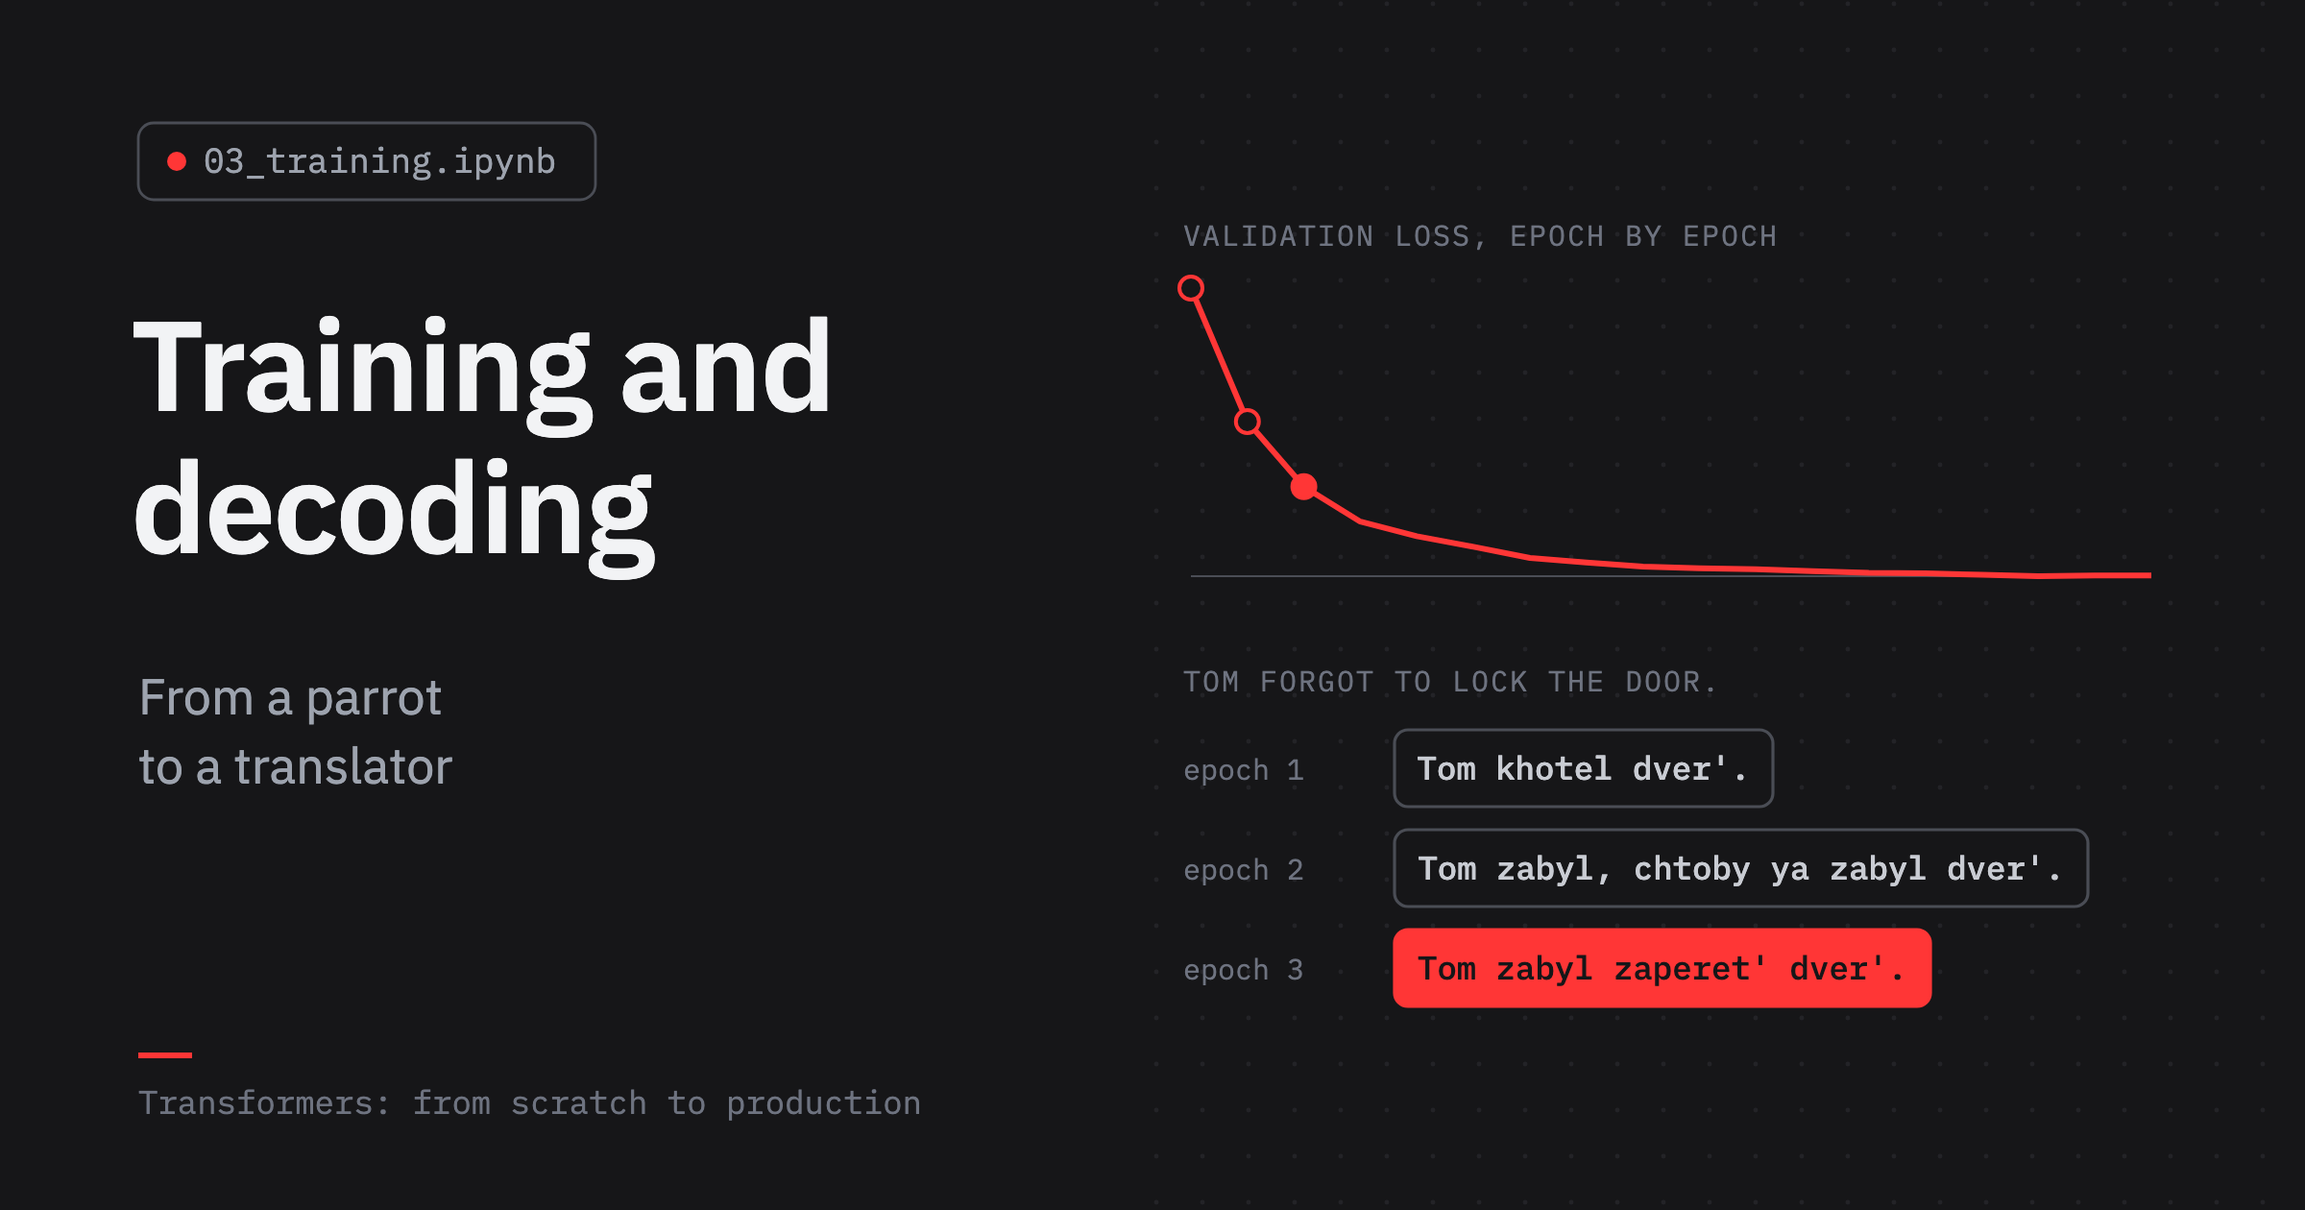
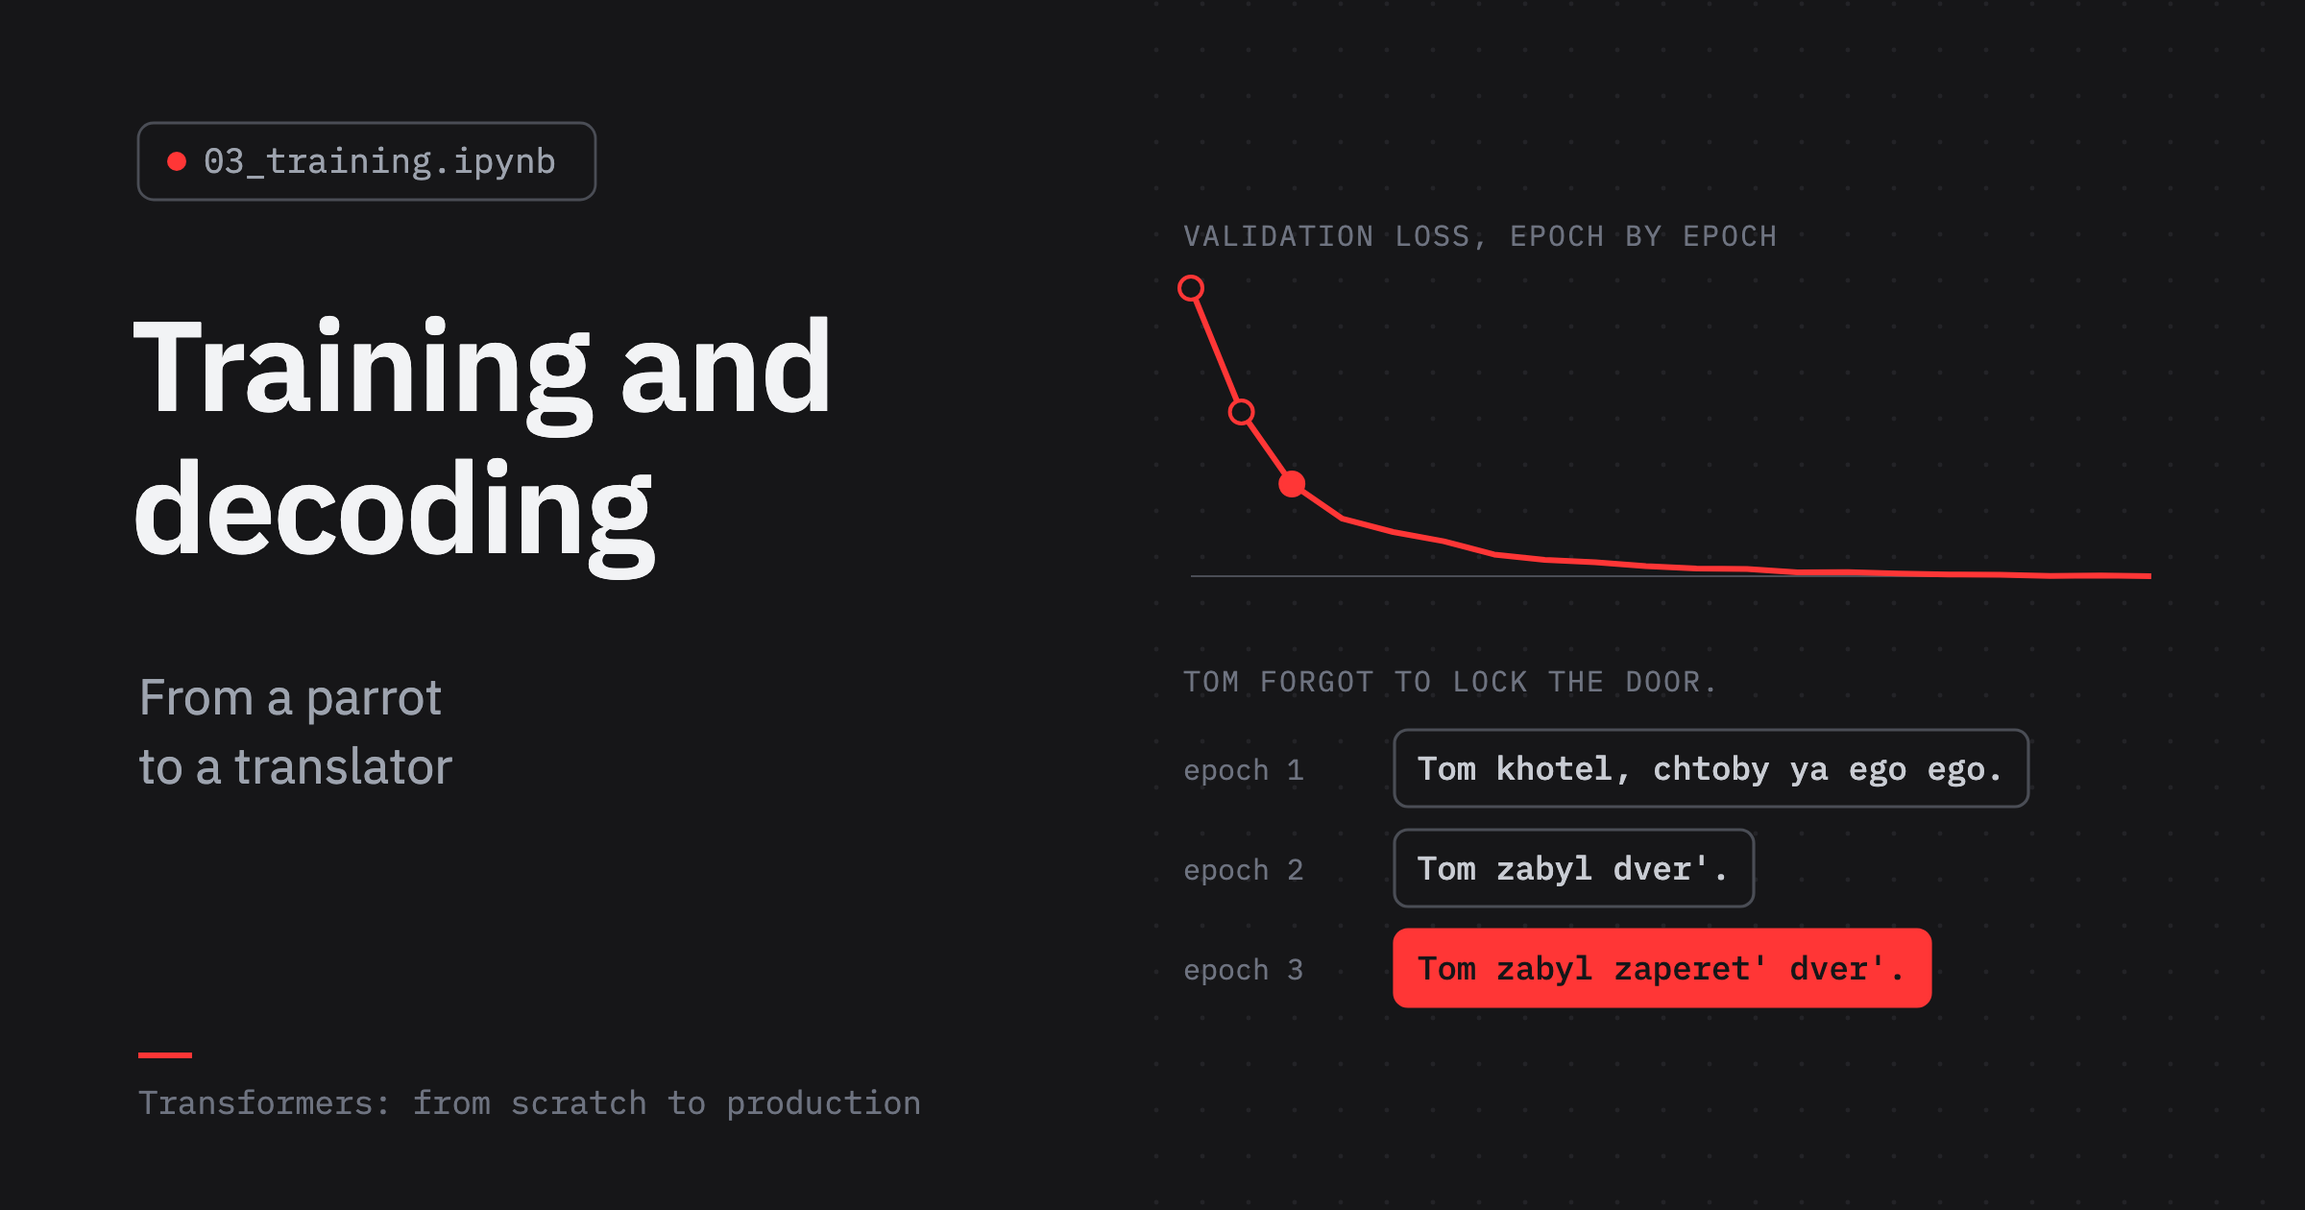
Lesson 3: text checked against the published run; attention maps side by side
tools/kaggle_run.py runs a lesson in full on a Kaggle GPU from a branch and downloads the executed
notebook; heatmap can draw into a given subplot.

diff --git a/lessons/03_training/lesson.py b/lessons/03_training/lesson.py
@@ -15,7 +15,7 @@
 #
 # First the model has to have probabilities worth decoding. In lesson 2 our Transformer could only parrot the
 # token it had just read, or recite sixteen sentences it had learned by heart. In this lesson it trains on half a
-# million sentence pairs, on a free GPU, in about half an hour, with the recipe of the 2017 paper: batches built
+# million sentence pairs, on a free GPU, in about twenty minutes, with the recipe of the 2017 paper: batches built
 # from tokens, a smoothed loss, Adam with a warm-up, and half-precision arithmetic. Every piece is explained and
 # tested before it goes into the loop.
 #
@@ -481,8 +481,8 @@ for (name, losses), color in zip(curves.items(), [COLORS["dec"], COLORS["enc"]])
     ax.plot(smooth, color=color, label=name)
 ax.axhline(frequency_only, color=COLORS["muted"], linestyle=(0, (3, 3)), linewidth=1)
 label = "knows only the token frequencies"
-x, y = EXPERIMENT_STEPS * 0.98, frequency_only - 0.25  # under the line, between the curves
-ax.text(x, y, label, ha="right", va="top", fontsize=9)
+x, y = EXPERIMENT_STEPS * 0.98, frequency_only + 0.45  # above the line, clear of the curves
+ax.text(x, y, label, ha="right", va="bottom", fontsize=9)
 ax.set_xlabel("step")
 ax.set_ylabel("training loss (smoothed)")
 ax.set_title("The same peak learning rate, with and without warm-up")
@@ -680,8 +680,8 @@ table(progress[["epoch", *PROBES]])
 
 # %% [markdown]
 # In the first epoch the model strings frequent words together and repeats itself. Within a few epochs the
-# everyday sentences come out right and stay right. Our own sentence improves too, from nonsense to fluent Russian,
-# but never to the right translation: the researcher stays a man. Section 10 finds out why.
+# everyday sentences come out right and stay right. Our own sentence improves too, from nonsense to nearly correct
+# Russian, but never to the right translation: the researcher stays a man. Section 10 finds out why.
 
 # %% [markdown]
 # ## 8. Decoding by search
@@ -735,9 +735,10 @@ for sentence in MINIMAL_PAIRS:
 table(pd.DataFrame(rows))
 
 # %% [markdown]
-# The second half of every sentence is right: *она устала*, *она занята* for *she*, a masculine *устал*, *занят*
-# for *he* (Russian often drops the pronoun there). The first half never changes with the pronoun: the person who
-# speaks is a man, or several people, whatever the English says. The sentences about the teacher, simple and
+# The pronoun and the verb after it follow the English: *она* with a feminine verb for *she*, a masculine *устал*,
+# *занят*, *измотан* for *he* (Russian often drops the pronoun there). Only the rare *exhausted* after *she* comes
+# out as a word that doesn't exist. The first half never changes with the pronoun: the person who speaks is a man,
+# or several people, whatever the English says. The sentences about the teacher, simple and
 # frequent in the data, get high scores, near 0; the one about the researcher, a rare word, much lower ones. Hold
 # these observations until section 10.
 #
@@ -834,7 +835,8 @@ print("beam search:", beam)
 # Every step keeps four partial translations, ranked by their total log-probability, which only goes down as they
 # grow. The runners-up are the alternatives the search weighs: a plural subject, a different verb form, sometimes a
 # word that doesn't exist, which falls behind and is dropped. Where one of them overtakes the leader later in the
-# sentence, the beam's translation differs from greedy's; compare the two lines under the table.
+# sentence, the beam's translation differs from greedy's. Here it happens at the last word: the beam replaces
+# greedy's invented *изнутана* with a real one.
 #
 # Compare the two decoders on validation sentences: how often beam search changes the translation, and whether the
 # translations it picks are more probable under the model, which is what it searches for.
@@ -972,9 +974,9 @@ table(pd.DataFrame(rows))
 #
 # Lesson 2 ended with a flat map: after memorizing sixteen pairs, the cross-attention of the last decoder layer
 # spread evenly over the English sentence. Here are the same maps for the trained model, one per decoder layer,
-# averaged over the four heads. The model reads the reference translation of our sentence, and each row is the step
-# at which it writes one Russian token: the row labelled *▁сказала* is where the model decides on *сказала*, and its
-# cells show which English tokens it looks at while doing so.
+# side by side, each averaged over the four heads. The model reads the reference translation of our sentence, and
+# each row is the step at which it writes one Russian token: the row labelled *▁сказала* is where the model decides
+# on *сказала*, and its cells show which English tokens it looks at while doing so.
 
 # %%
 RU_EXAMPLE = "Исследовательница сказала, что вымоталась."
@@ -987,17 +989,14 @@ with torch.no_grad():
 en_tokens = tokenizer.encode(EN_EXAMPLE).tokens
 written = tokenizer.encode(RU_EXAMPLE).tokens + ["<eos>"]  # row t writes token t
 
-for number, layer in enumerate(model.decoder, start=1):
+fig, axes = plt.subplots(1, len(model.decoder), figsize=(9, 4.6), sharey=True)
+for number, (layer, ax) in enumerate(zip(model.decoder, axes), start=1):
     weights = layer.cross_attention.weights[0].mean(dim=0).float().cpu()  # (T_ru, T_en)
-    heatmap(
-        weights,
-        rows=written,
-        cols=en_tokens,
-        vmax=1,
-        title=f"Cross-attention, decoder layer {number}",
-        xlabel="English (keys)",
-        ylabel="the Russian token being written",
-    )
+    title = f"decoder layer {number}"
+    heatmap(weights, rows=written, cols=en_tokens, vmax=1, ax=ax, title=title)
+axes[0].set_ylabel("the Russian token being written")
+axes[1].set_xlabel("English (keys)")
+plt.tight_layout()
 plt.show()
 
 # %% [markdown]
@@ -1014,11 +1013,12 @@ for t, token in enumerate(written):
 table(pd.DataFrame(rows))
 
 # %% [markdown]
-# The middle layer has learned an alignment: while writing the pieces of *Исследовательница* it looks at the pieces
-# of *researcher*, while writing *сказала* at *said*, while writing *вымоталась* at *exhausted*. Nobody told the
-# model which word translates which. Looking at the right English word made the next token easier to predict, and
-# training found that out on its own. The other layers spread their attention more widely; not every layer does
-# the same job.
+# The decoder has learned an alignment: while writing the stem *Исследо-ватель* it looks at the pieces of
+# *researcher*, while writing *сказала* at *said*, while writing *вымо-* at *exhausted*. Nobody told the model which
+# word translates which. Looking at the right English word made the next token easier to predict, and training
+# found that out on its own. The layers mostly agree, and the maps above show that the middle one points most
+# sharply; the others spread their attention more widely. Note the row *ница*: all three layers look at *said*
+# there.
 #
 # That answers the question lesson 2 left open: *сказала* doesn't look at *she*. It doesn't need to, as you are
 # about to see.
@@ -1040,7 +1040,7 @@ token_chips(
 plt.show()
 
 # %% [markdown]
-# The model is confident about the stem *Исследо-*, and gives the feminine suffix *ница* almost no chance. Once
+# The stem *Исследо-ватель* gets reasonable probabilities, and the feminine suffix *ница* almost none. Once
 # *ница* is in place (we supplied it), *сказала* becomes likely: agreement inside Russian, from one word to the
 # next, the model has learned. What it hasn't learned is to make the noun feminine because of a *she* that comes
 # three words later in the English. (The other filled tokens are a choice, not a mistake: the model would rather
@@ -1111,8 +1111,8 @@ masculine_noun = train.ru.str.contains("учител", case=False) & ~feminine_n
 table(train[teacher_and_she & masculine_noun].head(5))
 
 # %% [markdown]
-# Often *she* is someone else (*Her teacher advised her…*). And when the woman is the teacher, Russian still uses the
-# masculine noun: *Она наш учитель*. That's ordinary Russian, where the masculine names of professions describe
+# Often *she* is someone else (*Ann apologized to her teacher…*). And when the woman is the teacher, Russian still
+# uses the masculine noun: *Она наш учитель*, *Моя сестра решила стать учителем*. That's ordinary Russian, where the masculine names of professions describe
 # women too. So the data teaches the model, correctly, that *учитель* is the usual word, and only rarely shows it a
 # sentence where *she* forces *учительница* and a feminine verb. For *исследовательница* it never shows one at all.
 #

diff --git a/tools/kaggle_run.py b/tools/kaggle_run.py
@@ -1,0 +1,99 @@
+"""Run a lesson in full on a Kaggle GPU, from a git branch, and download the executed notebook.
+
+Lessons that train need a GPU, which CI and most laptops don't have. This pushes a private Kaggle script that
+installs the branch's helpers, executes the branch's Kaggle notebook top to bottom with nbclient, and saves the
+executed copy; then waits for it and downloads the result to build/executed/<lesson>.ipynb.
+
+Usage (the branch must be pushed first):
+    uv run python tools/kaggle_run.py 03_training --branch lesson-03
+
+Needs the Kaggle CLI credentials in ~/.kaggle, as for publishing.
+"""
+
+from __future__ import annotations
+
+import argparse
+import json
+import shutil
+import subprocess
+import sys
+import tempfile
+import time
+from pathlib import Path
+
+ROOT = Path(__file__).resolve().parents[1]
+REPO = "xmarva/transformers-from-scratch"
+KERNEL = "qmarva/tfs-lesson-runner"
+
+RUNNER = '''
+import subprocess, sys, time, urllib.request
+
+BRANCH, LESSON, REPO = {branch!r}, {lesson!r}, {repo!r}
+subprocess.check_call([sys.executable, "-m", "pip", "install", "-q", f"git+https://github.com/{{REPO}}@{{BRANCH}}"])
+import nbformat
+from nbclient import NotebookClient
+
+url = f"https://raw.githubusercontent.com/{{REPO}}/{{BRANCH}}/notebooks/kaggle/{{LESSON}}/notebook.ipynb"
+nb = nbformat.reads(urllib.request.urlopen(url).read().decode(), as_version=4)
+for cell in nb.cells:  # the committed notebook points at main; run the branch's helpers and figures
+    cell.source = cell.source.replace(f"{{REPO}}@main", f"{{REPO}}@{{BRANCH}}")
+    cell.source = cell.source.replace(f"{{REPO}}/main/", f"{{REPO}}/{{BRANCH}}/")
+start = time.time()
+try:
+    resources = {{"metadata": {{"path": "/kaggle/working"}}}}
+    NotebookClient(nb, timeout=3600, kernel_name="python3", resources=resources).execute()
+finally:
+    nbformat.write(nb, "/kaggle/working/executed.ipynb")
+    print(f"ran in {{(time.time() - start) / 60:.1f}} min", flush=True)
+'''
+
+
+def kaggle(*args: str) -> str:
+    result = subprocess.run(["uvx", "kaggle", *args], capture_output=True, text=True, check=True)
+    return result.stdout
+
+
+def main(argv: list[str] | None = None) -> int:
+    parser = argparse.ArgumentParser(description=__doc__, formatter_class=argparse.RawDescriptionHelpFormatter)
+    parser.add_argument("lesson", help="lesson folder name, e.g. 03_training")
+    parser.add_argument("--branch", required=True, help="pushed git branch to run")
+    args = parser.parse_args(argv)
+
+    with tempfile.TemporaryDirectory() as tmp:
+        folder = Path(tmp)
+        (folder / "run_lesson.py").write_text(RUNNER.format(branch=args.branch, lesson=args.lesson, repo=REPO))
+        metadata = {
+            "id": KERNEL,
+            "title": "tfs lesson runner",
+            "code_file": "run_lesson.py",
+            "language": "python",
+            "kernel_type": "script",
+            "is_private": True,
+            "enable_gpu": True,
+            "enable_internet": True,
+            "dataset_sources": [],
+            "competition_sources": [],
+            "kernel_sources": [],
+            "model_sources": [],
+        }
+        (folder / "kernel-metadata.json").write_text(json.dumps(metadata, indent=2))
+        print(kaggle("kernels", "push", "-p", str(folder)).strip())
+
+    while True:
+        time.sleep(60)
+        status = kaggle("kernels", "status", KERNEL)
+        if any(word in status for word in ("COMPLETE", "ERROR", "CANCEL")):
+            print(status.strip())
+            break
+
+    with tempfile.TemporaryDirectory() as tmp:
+        kaggle("kernels", "output", KERNEL, "-p", tmp, "--file-pattern", "executed.ipynb")
+        out = ROOT / "build" / "executed" / f"{args.lesson}.ipynb"
+        out.parent.mkdir(parents=True, exist_ok=True)
+        shutil.copy(Path(tmp) / "executed.ipynb", out)
+        print(f"executed notebook -> {out.relative_to(ROOT)}")
+    return 0
+
+
+if __name__ == "__main__":
+    sys.exit(main())

diff --git a/lessons/03_training/figures.py b/lessons/03_training/figures.py
@@ -281,11 +281,12 @@ FIGURES = {"hero": hero, "step": step, "formats": formats, "beam-toy": beam_toy,
 
 # ---------------------------------------------------------------- covers: real outputs of the lesson's training run
 
-# Copied from the executed lesson (section 7): validation loss per epoch, and greedy translations of a probe.
-VALIDATION_LOSS = [4.497, 2.912, 2.137, 1.724, 1.55, 1.424, 1.292, 1.237, 1.189, 1.169, 1.157, 1.134, 1.114, 1.109,
-                   1.091, 1.075, 1.083, 1.084]
+# Copied from the executed lesson (section 7, the run published with it): validation loss per epoch, and greedy
+# translations of a probe sentence after the first three epochs.
+VALIDATION_LOSS = [4.373, 2.946, 2.117, 1.717, 1.565, 1.459, 1.305, 1.245, 1.217, 1.17, 1.145, 1.138, 1.101, 1.102,
+                   1.087, 1.077, 1.073, 1.059, 1.064, 1.056]
 PROBE = "Tom forgot to lock the door."
-PROGRESS = {1: "Том хотел дверь.", 2: "Том забыл, чтобы я забыл дверь.", 3: "Том забыл запереть дверь."}
+PROGRESS = {1: "Том хотел, чтобы я его его.", 2: "Том забыл дверь.", 3: "Том забыл запереть дверь."}
 
 LATIN = dict(zip("абвгдеёжзийклмнопрстуфхцчшщъыьэюя",
                  ["a", "b", "v", "g", "d", "e", "yo", "zh", "z", "i", "y", "k", "l", "m", "n", "o", "p", "r", "s", "t",

diff --git a/src/tfs/viz/charts.py b/src/tfs/viz/charts.py
@@ -25,6 +25,7 @@ def heatmap(
     annotate=False,
     fmt="{:.2f}",
     cell=0.3,
+    ax=None,
     theme="light",
 ):
     """Draw a matrix (attention weights, a mask) as a grid of cells, one hue from white to the concept color.
@@ -33,6 +34,7 @@ def heatmap(
     low         palette color of the lowest value: "card" (white) for weights, "grid" (grey) for a mask
     annotate    write every value in its cell
     cell        size of one cell in inches
+    ax          draw into this subplot instead of a new figure, e.g. to put several maps side by side
     """
     c = palette(theme)
     values = np.asarray(matrix, dtype=float)
@@ -41,7 +43,10 @@ def heatmap(
     label_room = 0.11 * max([len(str(label)) for label in (rows or [])] + [3])
     fig_w = cell * n_cols + label_room + 0.3
     fig_h = cell * n_rows + (0.11 * max([len(str(label)) for label in (cols or [])] + [3]) if cols else 0.2) + 0.5
-    fig, ax = plt.subplots(figsize=(fig_w, fig_h))
+    if ax is None:
+        fig, ax = plt.subplots(figsize=(fig_w, fig_h))
+    else:
+        fig = ax.figure
     ax.pcolormesh(values, cmap=colors, vmin=vmin, vmax=vmax, edgecolors=c["card"], linewidth=1.2)
     ax.invert_yaxis()  # the first row on top, like a printed matrix
     ax.set_aspect("equal")

diff --git a/docs/authoring.md b/docs/authoring.md
@@ -59,6 +59,16 @@ uv run --with nbconvert jupyter nbconvert --to html build/executed/01_tokenizati
 uv run pytest -q && uv run ruff check .
 ```
 
+Lessons that train need a GPU. Run them in full on Kaggle from a pushed branch; the executed notebook comes back to
+`build/executed/`, to check every claim of the text against it and to render it:
+
+```bash
+uv run python tools/kaggle_run.py 03_training --branch lesson-03
+```
+
+Write the text of a training lesson against the run you will publish: outputs change a little from run to run, so
+describe them in words that hold for any run, and check them again after the last run.
+
 Open a lesson in Jupyter while writing it: `uv run --with jupyterlab jupyter lab lessons/01_tokenization/lesson.py`
 (jupytext pairs the file with a notebook view).
 
